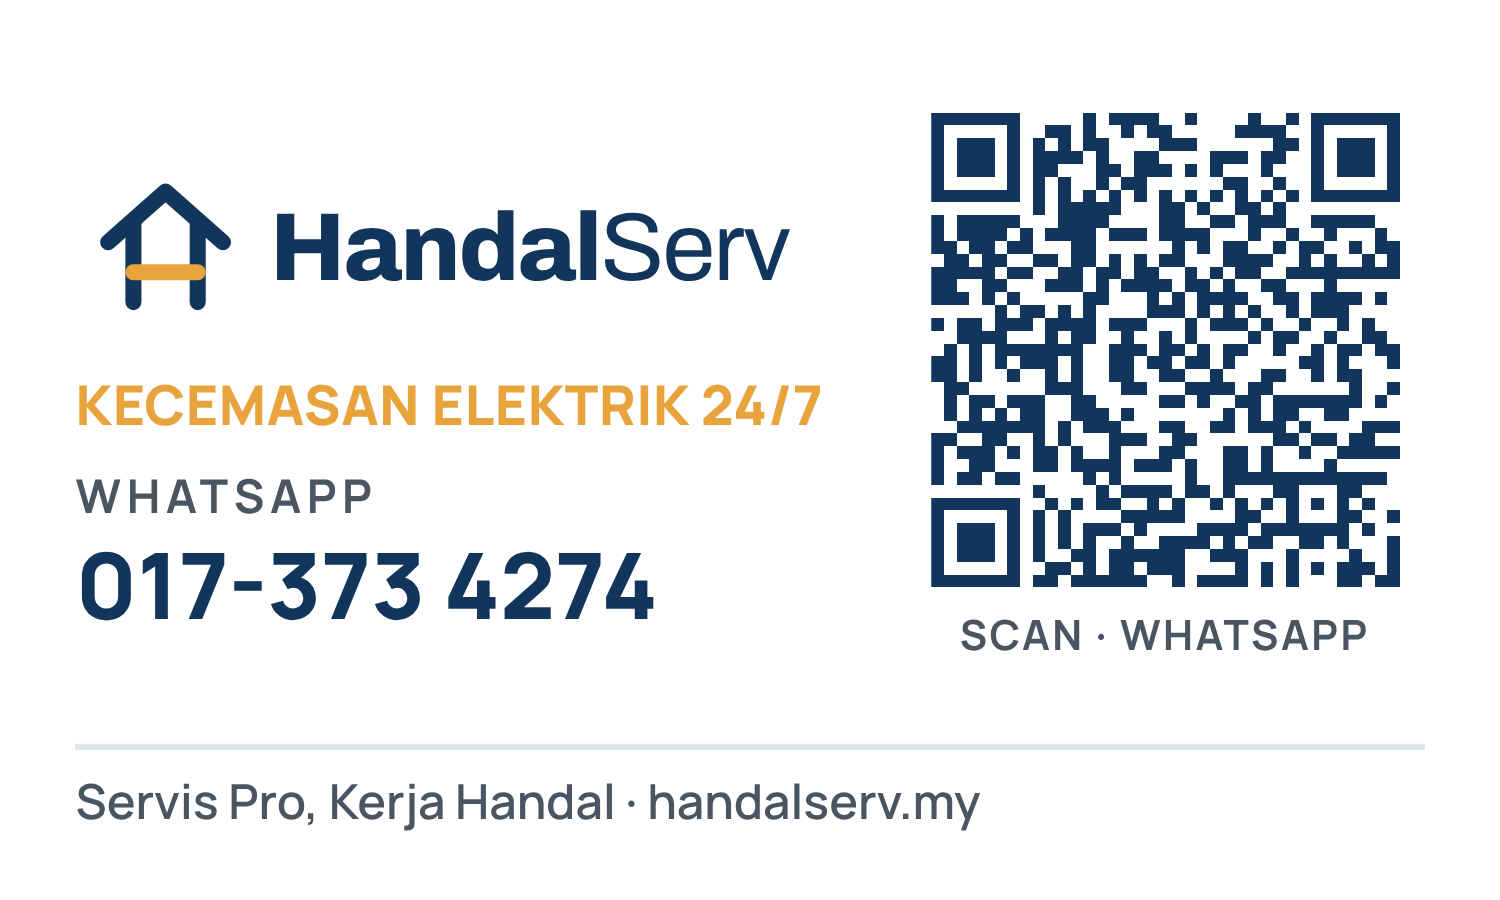
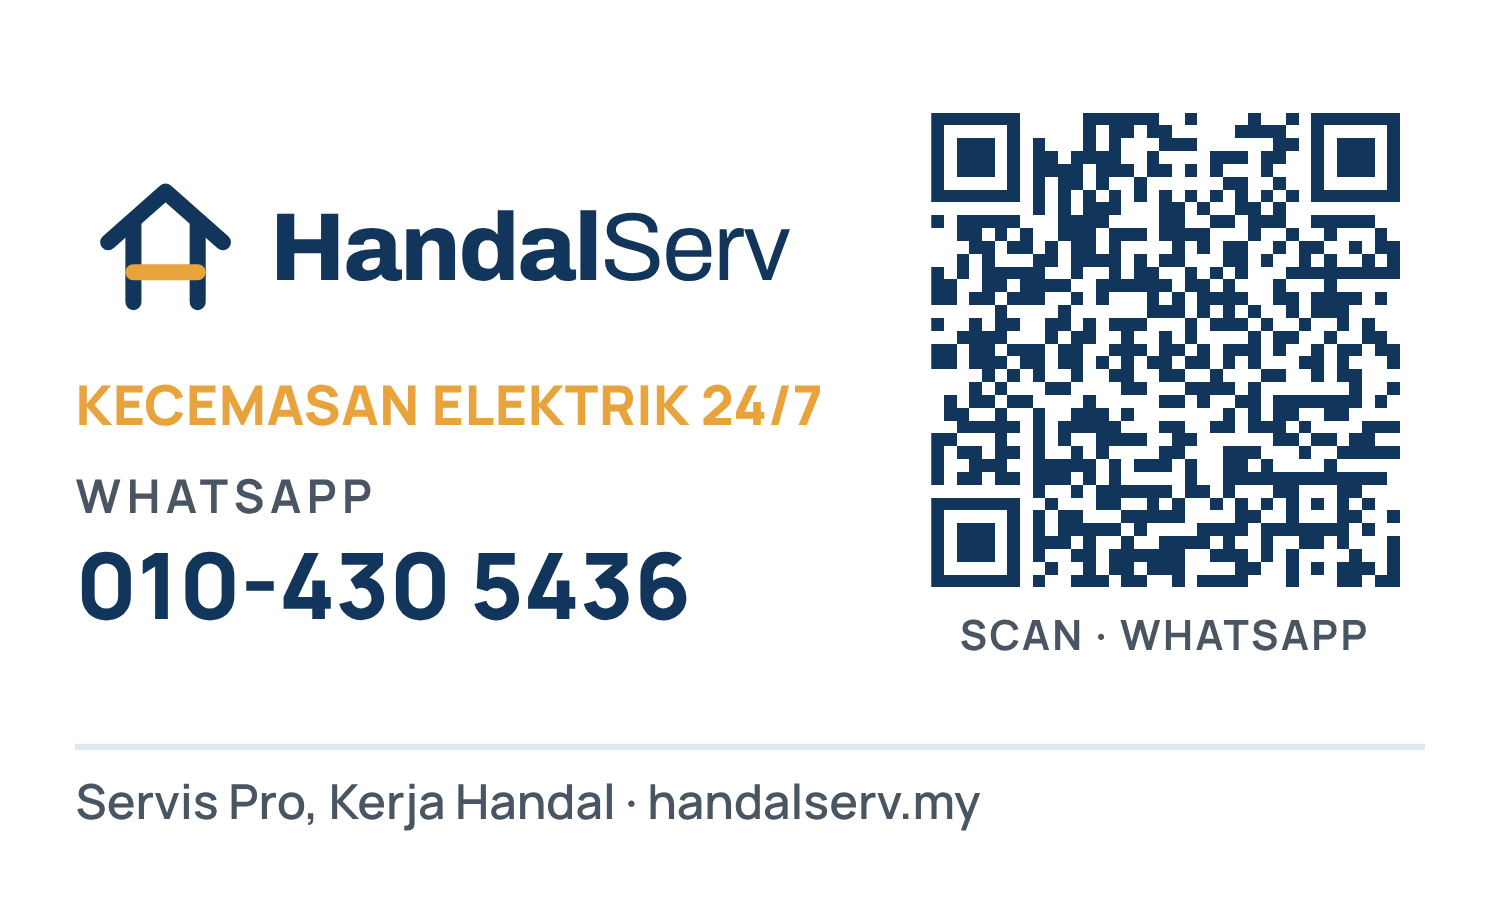
New business number 010-430 5436
All WhatsApp links and the number shown on handalserv.my, the app's
before & after post picture and stickers (BRAND.whatsapp), the link
preview image and the print-shop sticker files now use 010-430 5436
(wa.me/60104305436). The preview image gets a new name, hs-og-2.jpg,
so shared links fetch it fresh; the old preview addresses redirect to it.

Claude-Session: https://claude.ai/code/session_01QpkJEpSZUnwJPg85pa7SM2

diff --git a/landing/index.html b/landing/index.html
@@ -14,12 +14,12 @@
 <meta property="og:title" content="HandalServ · Servis Pro, Kerja Handal">
 <meta property="og:description" content="Home & building maintenance across the Klang Valley, 24/7. Split Payment 3× at 0% interest for electrical works.">
 <meta property="og:url" content="https://handalserv.my/">
-<meta property="og:image" content="https://handalserv.my/hs-og-neon.jpg">
-<meta property="og:image:secure_url" content="https://handalserv.my/hs-og-neon.jpg">
+<meta property="og:image" content="https://handalserv.my/hs-og-2.jpg">
+<meta property="og:image:secure_url" content="https://handalserv.my/hs-og-2.jpg">
 <meta property="og:image:type" content="image/jpeg">
 <meta property="og:image:width" content="1200">
 <meta property="og:image:height" content="630">
-<meta property="og:image:alt" content="HandalServ neon logo: 24/7 Electrical Service, WhatsApp 017-373 4274">
+<meta property="og:image:alt" content="HandalServ neon logo: 24/7 Electrical Service, WhatsApp 010-430 5436">
 <meta name="twitter:card" content="summary_large_image">
 <link rel="preconnect" href="https://fonts.googleapis.com">
 <link rel="preconnect" href="https://fonts.gstatic.com" crossorigin>
@@ -159,7 +159,7 @@ footer a:hover,nav a:hover{color:#fff}
 <header><div class="navrow">
  <a class="brand" href="#top" aria-label="HandalServ, back to top"><img src="/brand/handalserv-logo-putih.svg" alt="HandalServ"></a>
  <nav aria-label="Main"><a href="#services">Services</a><a href="#how">How It Works</a><a href="#split">Split Payment</a><a href="#why">Why Us</a><a href="#contact">Contact</a></nav>
- <a class="pill" data-wa="quote" href="https://wa.me/60173734274" target="_blank" rel="noopener">Get a Quote <b>↗</b></a>
+ <a class="pill" data-wa="quote" href="https://wa.me/60104305436" target="_blank" rel="noopener">Get a Quote <b>↗</b></a>
 </div></header>
 
 <main id="top">
@@ -169,7 +169,7 @@ footer a:hover,nav a:hover{color:#fff}
   <h1><span class="o">24/7</span> <span class="bl">Electrical Service</span></h1>
   <div class="tag-line">Servis Pro, Kerja Handal</div>
   <p class="sub">Repairs, electrical, leaks, painting, plumbing, renovation and scheduled maintenance across the Klang Valley, 24/7. Send a photo of the problem and get a clear written quotation before any work begins.</p>
-  <div class="ctas"><a class="pill" data-wa="quote" href="https://wa.me/60173734274" target="_blank" rel="noopener">WhatsApp for a Quote <b>↗</b></a><a class="ghost" href="#services">View Services</a></div>
+  <div class="ctas"><a class="pill" data-wa="quote" href="https://wa.me/60104305436" target="_blank" rel="noopener">WhatsApp for a Quote <b>↗</b></a><a class="ghost" href="#services">View Services</a></div>
   <ul class="chips"><li>Written quotation</li><li>Before &amp; after photo report</li><li>Open 24/7</li></ul>
  </div>
  <div class="stage">
@@ -230,7 +230,7 @@ footer a:hover,nav a:hover{color:#fff}
  <div><div class="k">Split Payment 3×</div><br><span class="only">Electrical works only</span><h2>Pay for electrical works in 3, at 0% interest</h2>
   <p class="lead">Electrical problems can't wait for payday. Pay 40% before work starts, then 30% the next month and 30% the month after.</p>
   <ul class="perks"><li>0% interest</li><li>No late fee</li><li>No admin charge</li><li>Settle early anytime</li></ul>
-  <div class="ctas" style="justify-content:flex-start"><a class="pill" data-wa="split" href="https://wa.me/60173734274" target="_blank" rel="noopener">Ask about Split Payment <b>↗</b></a><a class="ghost" href="/a/demo" target="_blank" rel="noopener">See the application form</a></div>
+  <div class="ctas" style="justify-content:flex-start"><a class="pill" data-wa="split" href="https://wa.me/60104305436" target="_blank" rel="noopener">Ask about Split Payment <b>↗</b></a><a class="ghost" href="/a/demo" target="_blank" rel="noopener">See the application form</a></div>
   <p class="fine">Split Payment is available for electrical works only, subject to approval, one active plan per customer. Payment 1 is made before work starts. Apply online in about 2 minutes: your details, IC photo and signature.</p></div>
  <div class="pays"><div class="k">Example: RM1,000 of electrical works</div>
   <div class="pay first"><span class="n">1</span><span><b>RM400</b><small>Before work starts</small></span><span class="pct">40%</span></div>
@@ -250,24 +250,24 @@ footer a:hover,nav a:hover{color:#fff}
 </div></section>
 
 <section class="band" id="contact" style="border:0"><div class="cta-band"><div class="hatch"></div>
- <h2>Something broken?<br>Send a photo, get a quote.</h2><p class="area">Service area: Klang Valley · Open 24/7</p><p class="wa">WhatsApp: 017-373 4274</p>
- <div class="ctas"><a class="pill" data-wa="quote" href="https://wa.me/60173734274" target="_blank" rel="noopener">WhatsApp 017-373 4274 <b>↗</b></a></div>
+ <h2>Something broken?<br>Send a photo, get a quote.</h2><p class="area">Service area: Klang Valley · Open 24/7</p><p class="wa">WhatsApp: 010-430 5436</p>
+ <div class="ctas"><a class="pill" data-wa="quote" href="https://wa.me/60104305436" target="_blank" rel="noopener">WhatsApp 010-430 5436 <b>↗</b></a></div>
 </div></section>
 </main>
 
 <footer><div><img src="/brand/handalserv-logo-putih.svg" alt="HandalServ"><p style="margin-top:10px">Home and building maintenance. Servis Pro, Kerja Handal.</p></div>
- <div><h5>Contact</h5><a data-wa="quote" href="https://wa.me/60173734274" target="_blank" rel="noopener">WhatsApp: 017-373 4274</a><br>Operating hours: 24/7<br>Service area: Klang Valley</div>
+ <div><h5>Contact</h5><a data-wa="quote" href="https://wa.me/60104305436" target="_blank" rel="noopener">WhatsApp: 010-430 5436</a><br>Operating hours: 24/7<br>Service area: Klang Valley</div>
  <div><h5>Links</h5><a href="#services">Services</a><br><a href="#how">How It Works</a><br><a href="#split">Split Payment</a><br><a href="#why">Why Us</a></div>
  <div class="legal">HandalServ is a brand of MA Legacy Solutions (SA0494184-P). © <span id="year">2026</span></div></footer>
 
-<a class="wa-float" data-wa="quote" href="https://wa.me/60173734274" target="_blank" rel="noopener" aria-label="WhatsApp HandalServ">
+<a class="wa-float" data-wa="quote" href="https://wa.me/60104305436" target="_blank" rel="noopener" aria-label="WhatsApp HandalServ">
   <svg width="30" height="30" viewBox="0 0 24 24" fill="currentColor" aria-hidden="true"><path d="M12 2a10 10 0 0 0-8.6 15.1L2 22l5-1.3A10 10 0 1 0 12 2Zm0 18.2c-1.5 0-3-.4-4.3-1.2l-.3-.2-3 .8.8-2.9-.2-.3A8.2 8.2 0 1 1 12 20.2Zm4.5-6.1c-.2-.1-1.5-.7-1.7-.8-.2-.1-.4-.1-.6.1l-.8 1c-.1.2-.3.2-.5.1a6.7 6.7 0 0 1-3.3-2.9c-.2-.4.3-.4.8-1.3.1-.2 0-.3 0-.4l-.8-1.8c-.2-.5-.4-.4-.6-.4h-.5c-.2 0-.4.1-.7.3-.2.3-.9.9-.9 2.2s1 2.6 1.1 2.7c.1.2 1.9 2.9 4.6 4.1 1.7.7 2.4.8 3.2.7.5-.1 1.5-.6 1.8-1.2.2-.6.2-1.1.1-1.2l-.4-.2Z"/></svg>
 </a>
 
 <script>
 /* WhatsApp buttons open a chat with a ready message. */
 (function () {
-  var NUMBER = '60173734274';
+  var NUMBER = '60104305436';
   var TEXT = {
     quote: "Hi HandalServ, I'd like a quotation for: ",
     split: "Hi HandalServ, I'd like to ask about Split Payment 3x for electrical works."

diff --git a/src/lib/sticker.test.ts b/src/lib/sticker.test.ts
@@ -6,7 +6,7 @@ describe('stickerInfo', () => {
   it('names the job in the footer and the WhatsApp message', () => {
     const info = stickerInfo({ number: 'SR/26/1101', date: '2026-11-04' } as Document)
     expect(info.footer).toBe('Diservis 04 Nov 2026 · SR/26/1101')
-    expect(info.link).toBe(`https://wa.me/60173734274?text=${encodeURIComponent('Salam HandalServ, saya perlukan servis. (Sticker SR/26/1101)')}`)
+    expect(info.link).toBe(`https://wa.me/60104305436?text=${encodeURIComponent('Salam HandalServ, saya perlukan servis. (Sticker SR/26/1101)')}`)
   })
 
   it('has a general footer without a job', () => {

diff --git a/src/lib/brand.ts b/src/lib/brand.ts
@@ -9,6 +9,6 @@ export const BRAND = {
   /** Navy logo for light backgrounds, white one for dark. */
   logo: './brand/handalserv-logo-warna.svg',
   logoOnDark: './brand/handalserv-logo-putih.svg',
-  whatsapp: '017-373 4274',
+  whatsapp: '010-430 5436',
   site: 'handalserv.my',
 }

diff --git a/README.md b/README.md
@@ -127,7 +127,7 @@ on, a backup file is asked for every 30 days. Signing out stops syncing and keep
 **HandalServ landing page.** `landing/index.html` is the public page for the HandalServ brand: a dark theme with the
 HandalServ logo drawn in blue and orange neon, sparks crackling off it (still and spark-free with reduced motion),
 and the page's content (services, how it
-works, Split Payment 3× for electrical works only, WhatsApp 017-373 4274). The deploy puts it at the root of the
+works, Split Payment 3× for electrical works only, WhatsApp 010-430 5436). The deploy puts it at the root of the
 Firebase Hosting site, next to the customer application links (`/a/…`, served by the app as `app.html`); it is live at
 https://handalserv.my (custom domain on Firebase Hosting, DNS at Exabytes). `landing/robots.txt` and `landing/sitemap.xml` point
 search engines at the page and keep them off `/a/…`; the tab icons (`favicon.ico`, `hs-favicon.png`,
